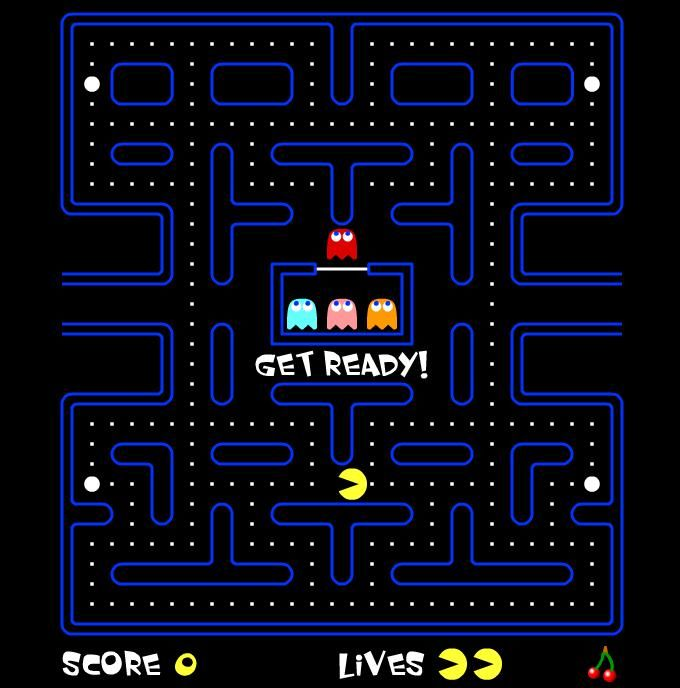
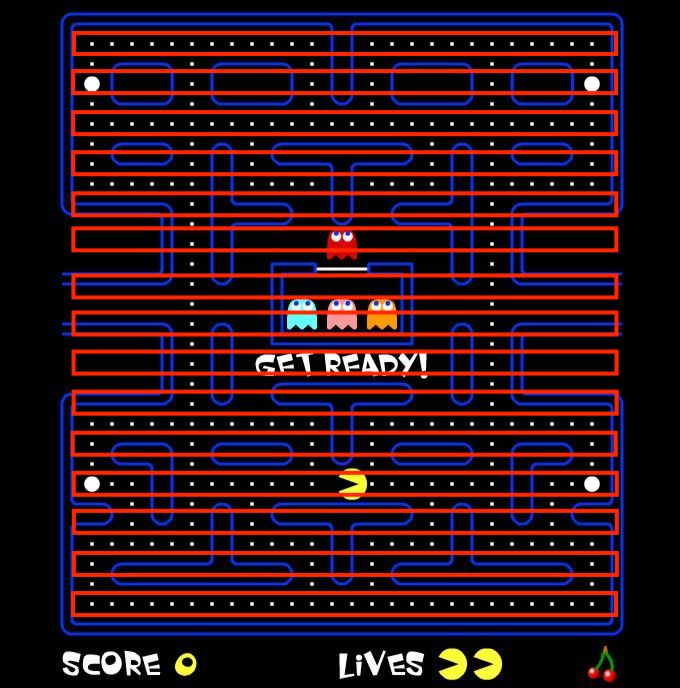
new map, nerfed orange

Changed region(s): [[0.0926, 0.0305, 0.9265, 0.9157]]

diff --git a/js/pacman/script.js b/js/pacman/script.js
@@ -40,54 +40,70 @@ if (rngWorld == 0){
         [0,0,0,0,0,0,0,0,0,0]
     ];
 }else if (rngWorld == 3){
-    var world = [
-        [0,0,0,0,0,0,0,0,0,0,0,0,0,0,0],
-        [0,2,2,2,2,2,2,2,2,2,2,2,2,1,0],
-        [0,2,2,2,2,2,2,2,2,2,2,2,2,1,0],
-        [0,2,2,2,2,2,2,2,2,2,2,2,2,1,0],
-        [0,2,2,2,2,2,2,2,2,2,2,2,2,1,0],
-        [0,2,2,2,2,2,2,2,2,2,2,2,2,1,0],
-        [0,2,2,2,2,2,2,2,2,2,2,2,2,1,0],
-        [0,2,2,2,2,2,2,2,2,2,2,2,2,1,0],
-        [0,2,2,2,2,2,2,2,2,2,2,2,2,1,0],
-        [0,2,2,2,2,2,2,2,2,2,2,2,2,1,0],
-        [0,2,2,2,2,2,2,2,2,2,2,2,2,1,0],
-        [0,2,2,2,2,2,2,2,2,2,2,2,2,1,0],
-        [0,2,2,2,2,2,2,2,2,2,2,2,2,1,0],
-        [0,2,2,2,2,2,2,2,2,2,2,2,2,1,0],
-        [0,0,0,0,0,0,0,0,0,0,0,0,0,0,0]
+    var world = [ 
+        [0,0,0,0,0,0,0,0,0,0,0,0,0,0,0,0,0,0,0,0,0,0,0,0,0,0,0,0],
+        [0,1,1,1,1,1,1,1,1,1,1,1,1,0,0,1,1,1,1,1,1,1,1,1,1,1,1,0],
+        [0,1,0,0,0,0,1,0,0,0,0,0,1,0,0,1,0,0,0,0,0,1,0,0,0,0,1,0],
+        [0,1,0,0,0,0,1,0,0,0,0,0,1,0,0,1,0,0,0,0,0,1,0,0,0,0,1,0],
+        [0,1,0,0,0,0,1,0,0,0,0,0,1,0,0,1,0,0,0,0,0,1,0,0,0,0,1,0],
+        [0,1,1,1,1,1,1,1,1,1,1,1,1,1,1,1,1,1,1,1,1,1,1,1,1,1,1,0],
+        [0,1,0,0,0,0,1,0,0,1,0,0,0,0,0,0,0,0,1,0,0,1,0,0,0,0,1,0],
+        [0,1,0,0,0,0,1,0,0,1,0,0,0,0,0,0,0,0,1,0,0,1,0,0,0,0,1,0],
+        [0,1,1,1,1,1,1,0,0,1,1,1,1,0,0,1,1,1,1,0,0,1,1,1,1,1,1,0],
+        [0,0,0,0,0,0,1,0,0,0,0,0,2,0,0,2,0,0,0,0,0,1,0,0,0,0,0,0],
+        [2,2,2,2,2,0,1,0,0,0,0,0,2,0,0,2,0,0,0,0,0,1,0,2,2,2,2,2],
+        [2,2,2,2,2,0,1,0,0,2,2,2,2,2,2,2,2,2,2,0,0,1,0,2,2,2,2,2],
+        [2,2,2,2,2,0,1,0,0,2,0,0,0,2,2,0,0,0,2,0,0,1,0,2,2,2,2,2],
+        [0,0,0,0,0,0,1,0,0,2,0,2,2,2,2,2,2,0,2,0,0,1,0,0,0,0,0,0],
+        [2,2,2,2,2,2,1,2,2,2,0,2,2,2,2,2,2,0,2,2,2,1,2,2,2,2,2,2],
+        [0,0,0,0,0,0,1,0,0,2,0,2,2,2,2,2,2,0,2,0,0,1,0,0,0,0,0,0],
+        [2,2,2,2,2,0,1,0,0,2,0,0,0,0,0,0,0,0,2,0,0,1,0,2,2,2,2,2],
+        [2,2,2,2,2,0,1,0,0,2,2,2,2,2,2,2,2,2,2,0,0,1,0,2,2,2,2,2],
+        [2,2,2,2,2,0,1,0,0,2,0,0,0,0,0,0,0,0,2,0,0,1,0,2,2,2,2,2],
+        [0,0,0,0,0,0,1,0,0,2,0,0,0,0,0,0,0,0,2,0,0,1,0,0,0,0,0,0],
+        [0,1,1,1,1,1,1,1,1,1,1,1,1,0,0,1,1,1,1,1,1,1,1,1,1,1,1,0],
+        [0,1,0,0,0,0,1,0,0,0,0,0,1,0,0,1,0,0,0,0,0,1,0,0,0,0,1,0],
+        [0,1,0,0,0,0,1,0,0,0,0,0,1,0,0,1,0,0,0,0,0,1,0,0,0,0,1,0],
+        [0,1,1,1,0,0,1,1,1,1,1,1,1,1,1,1,1,1,1,1,1,1,0,0,1,1,1,0],
+        [0,0,0,1,0,0,1,0,0,1,0,0,0,0,0,0,0,0,1,0,0,1,0,0,1,0,0,0],
+        [0,0,0,1,0,0,1,0,0,1,0,0,0,0,0,0,0,0,1,0,0,1,0,0,1,0,0,0],
+        [0,1,1,1,1,1,1,0,0,1,1,1,1,0,0,1,1,1,1,0,0,1,1,1,1,1,1,0],
+        [0,1,0,0,0,0,0,0,0,0,0,0,1,0,0,1,0,0,0,0,0,0,0,0,0,0,1,0],
+        [0,1,0,0,0,0,0,0,0,0,0,0,1,0,0,1,0,0,0,0,0,0,0,0,0,0,1,0],
+        [0,1,1,1,1,1,1,1,1,1,1,1,1,1,1,1,1,1,1,1,1,1,1,1,1,1,1,0],
+        [0,0,0,0,0,0,0,0,0,0,0,0,0,0,0,0,0,0,0,0,0,0,0,0,0,0,0,0]
     ];
 }
 
 var pacman = {
-    row: 1,
-    col: 1,
+    row: 23,
+    col: 14,
     lives: 3,
     score:0,
     topScore: 0
 };
 var pacman2 = {
-    row: 8,
-    col: 1,
+    row: 23,
+    col: 13,
     lives: 3,
     score: 0,
     topScore:0
 };
 var orange = {
-    row: 2,
-    col: 2,
+    row: 13,
+    col: 16,
 };
 var pink = {
-    row: 3,
-    col: 3,
+    row: 13,
+    col: 11,
 };
 var teal = {
-    row: 6,
-    col: 3,
+    row: 15,
+    col: 16,
 };
 var red = {
-    row: 7,
-    col: 2,
+    row: 15,
+    col: 11,
 };
 
 var player1 = document.querySelector("#player1");
@@ -148,7 +164,7 @@ function drawCherry() {
     // console.log(world);
     for (var row = 0; row<world.length; row++){
         for (let col = 0; col < world[row].length; col++) {
-            var rngCherry = Math.floor(Math.random()*15);
+            var rngCherry = Math.floor(Math.random()*30);
             var rngBanana = Math.floor(Math.random()*30);
             if (world[row][col] == 1){
                 if (rngCherry == 1){
@@ -255,6 +271,7 @@ document.onkeydown = function(e){
 // scatter ghosts and move pacman to test collisions
 // Check for player collision with ghosts
 setInterval(function(){
+    // console.log(orange.row, orange.col);
     if((pacman.row == orange.row && pacman.col == orange.col) || 
     (pacman.row == pink.row && pacman.col == pink.col) ||
     (pacman.row == teal.row && pacman.col == teal.col) ||
@@ -306,22 +323,36 @@ function newLife2() {
     }
 }
 
-// move orange
+// move orange but he won't make it out of the house
 setInterval(function(){
-    // console.log(`pacman row, col is ${pacman.row}, ${pacman.col}`);
-    // console.log(`orange row, col is ${orange.row}, ${orange.col}`);
-    if(pacman.lives > 0){
-        if(orange.row > pacman.row && 1 < orange.row < 8){
-            orange.row--;
-        }else if(orange.row < pacman.row && 1 < orange.row < 9){
-            orange.row++;
-        }
-        if(orange.col > pacman.col && 1 < orange.col < 9){
-            orange.col--;
-        }else if(orange.col < pacman.col && 1 < orange.col < 9){
-            orange.col++;
-        }
-    }
-    else{orange.col = 4; orange.row = 4;}
+// console.log(`pacman row, col is ${pacman.row}, ${pacman.col}`);
+// console.log(`orange row, col is ${orange.row}, ${orange.col}`);
+var rngOrange = Math.floor(Math.random()*4);
+console.log(rngOrange);
+if (rngOrange == 0 && world[orange.row-1][orange.col] != 0){
+    orange.row--;
+    // console.log("up");
+}else if(rngOrange == 1 && world[orange.row+1][orange.col] != 0){
+    orange.row++;
+    // console.log("down");
+}else if(rngOrange == 2 && world[orange.row][orange.col-1] != 0){
+    orange.col--;
+    // console.log("left");
+}else if(rngOrange == 2 && world[orange.row][orange.col+1] != 0){
+    orange.col++;
+    // console.log("right");
+}
+    // if(pacman.lives > 0){
+    //     if(orange.row > pacman.row && world[orange.row-1][orange.col] != 0){
+    //         orange.row--;
+    //     }else if(orange.row < pacman.row && world[orange.row+1][orange.col] != 0){
+    //         orange.row++;
+    //     }
+    //     if(orange.col > pacman.col && world[orange.row][orange.col-1] != 0){
+    //         orange.col--;
+    //     }else if(orange.col < pacman.col && world[orange.row][orange.col+1] != 0){
+    //         orange.col++;
+    //     }
+    // }
 drawGhosts();
 },1000)

diff --git a/js/pacman/style.css b/js/pacman/style.css
@@ -22,7 +22,6 @@ body {
 }
 .brick {
     background-color:aqua;
-
 }
 .coin {
     background-image: url("coin.gif") ;
@@ -47,8 +46,8 @@ body {
     width: 20px;
     height: 20px;
     position: absolute;
-    top: 20px;
-    left: 20px;
+    top: 460px;
+    left: 280px;
     transform: rotate(0deg);
 }
 #pacman2 {
@@ -59,9 +58,9 @@ body {
     width: 20px;
     height: 20px;
     position: absolute;
-    top: 200px;
-    left: 20px;
-    transform: rotate(0deg);
+    top: 460px;
+    left: 260px;
+    transform: rotate(180deg);
     
 }
 #orange {
